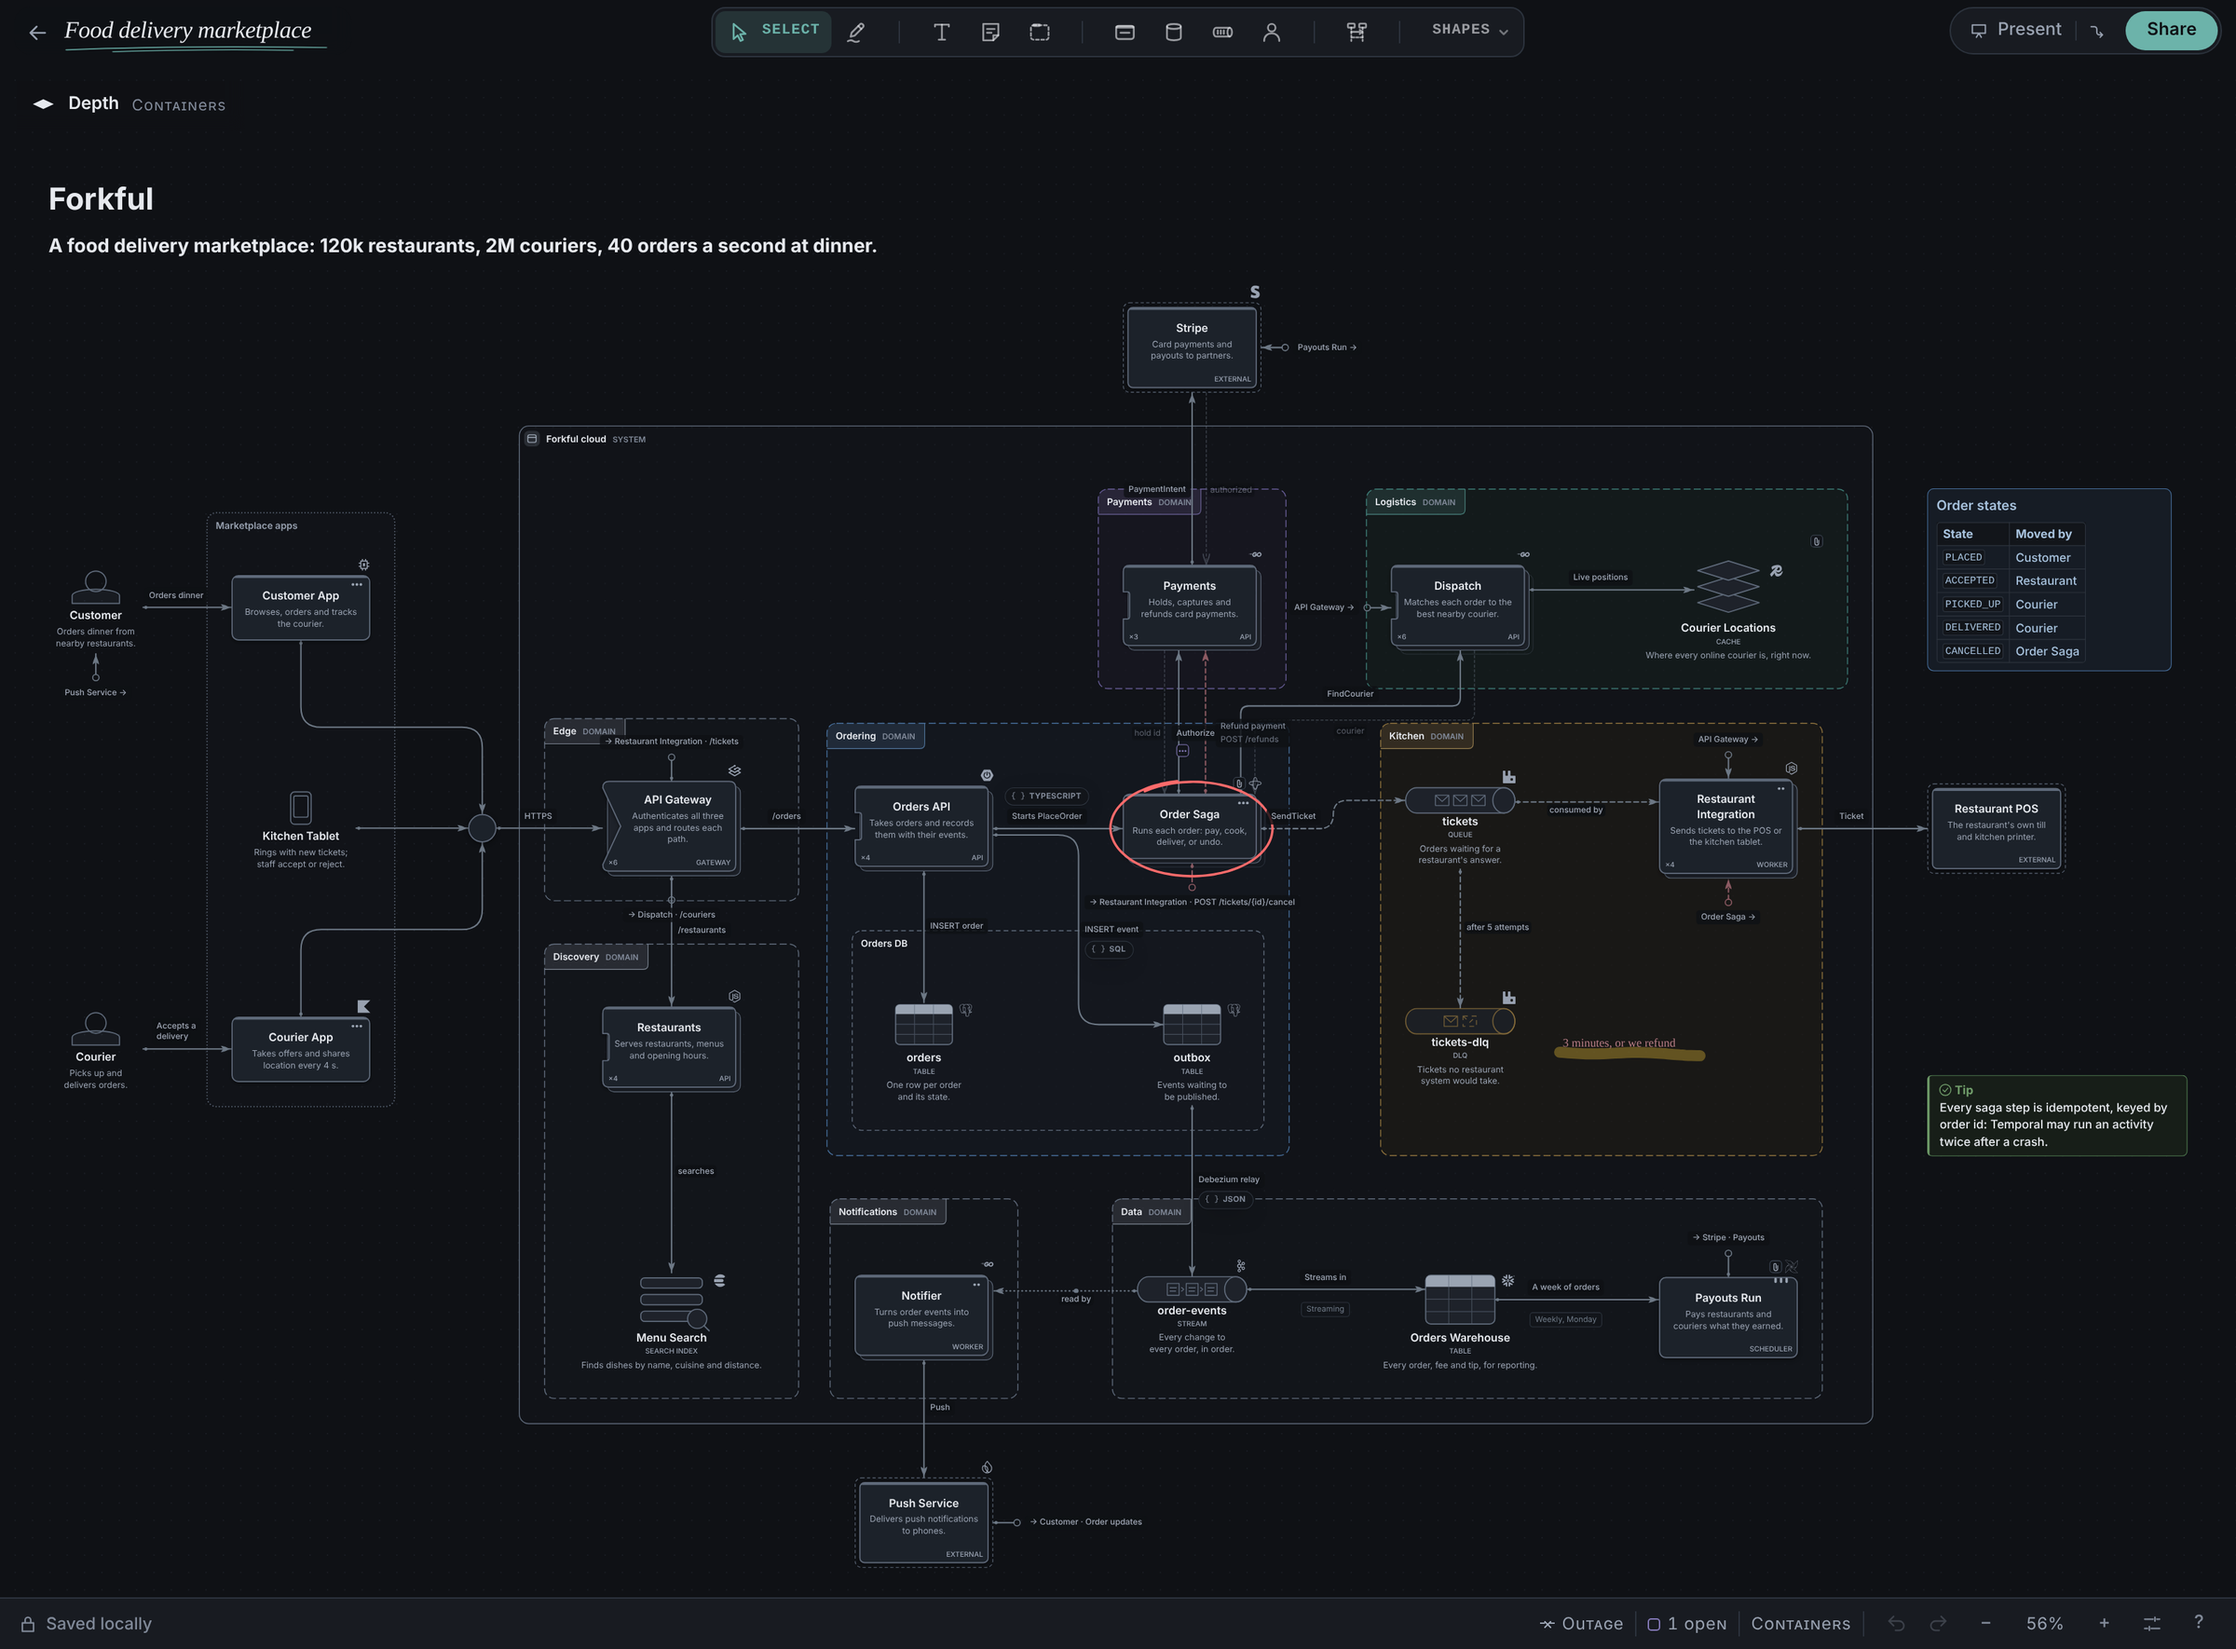
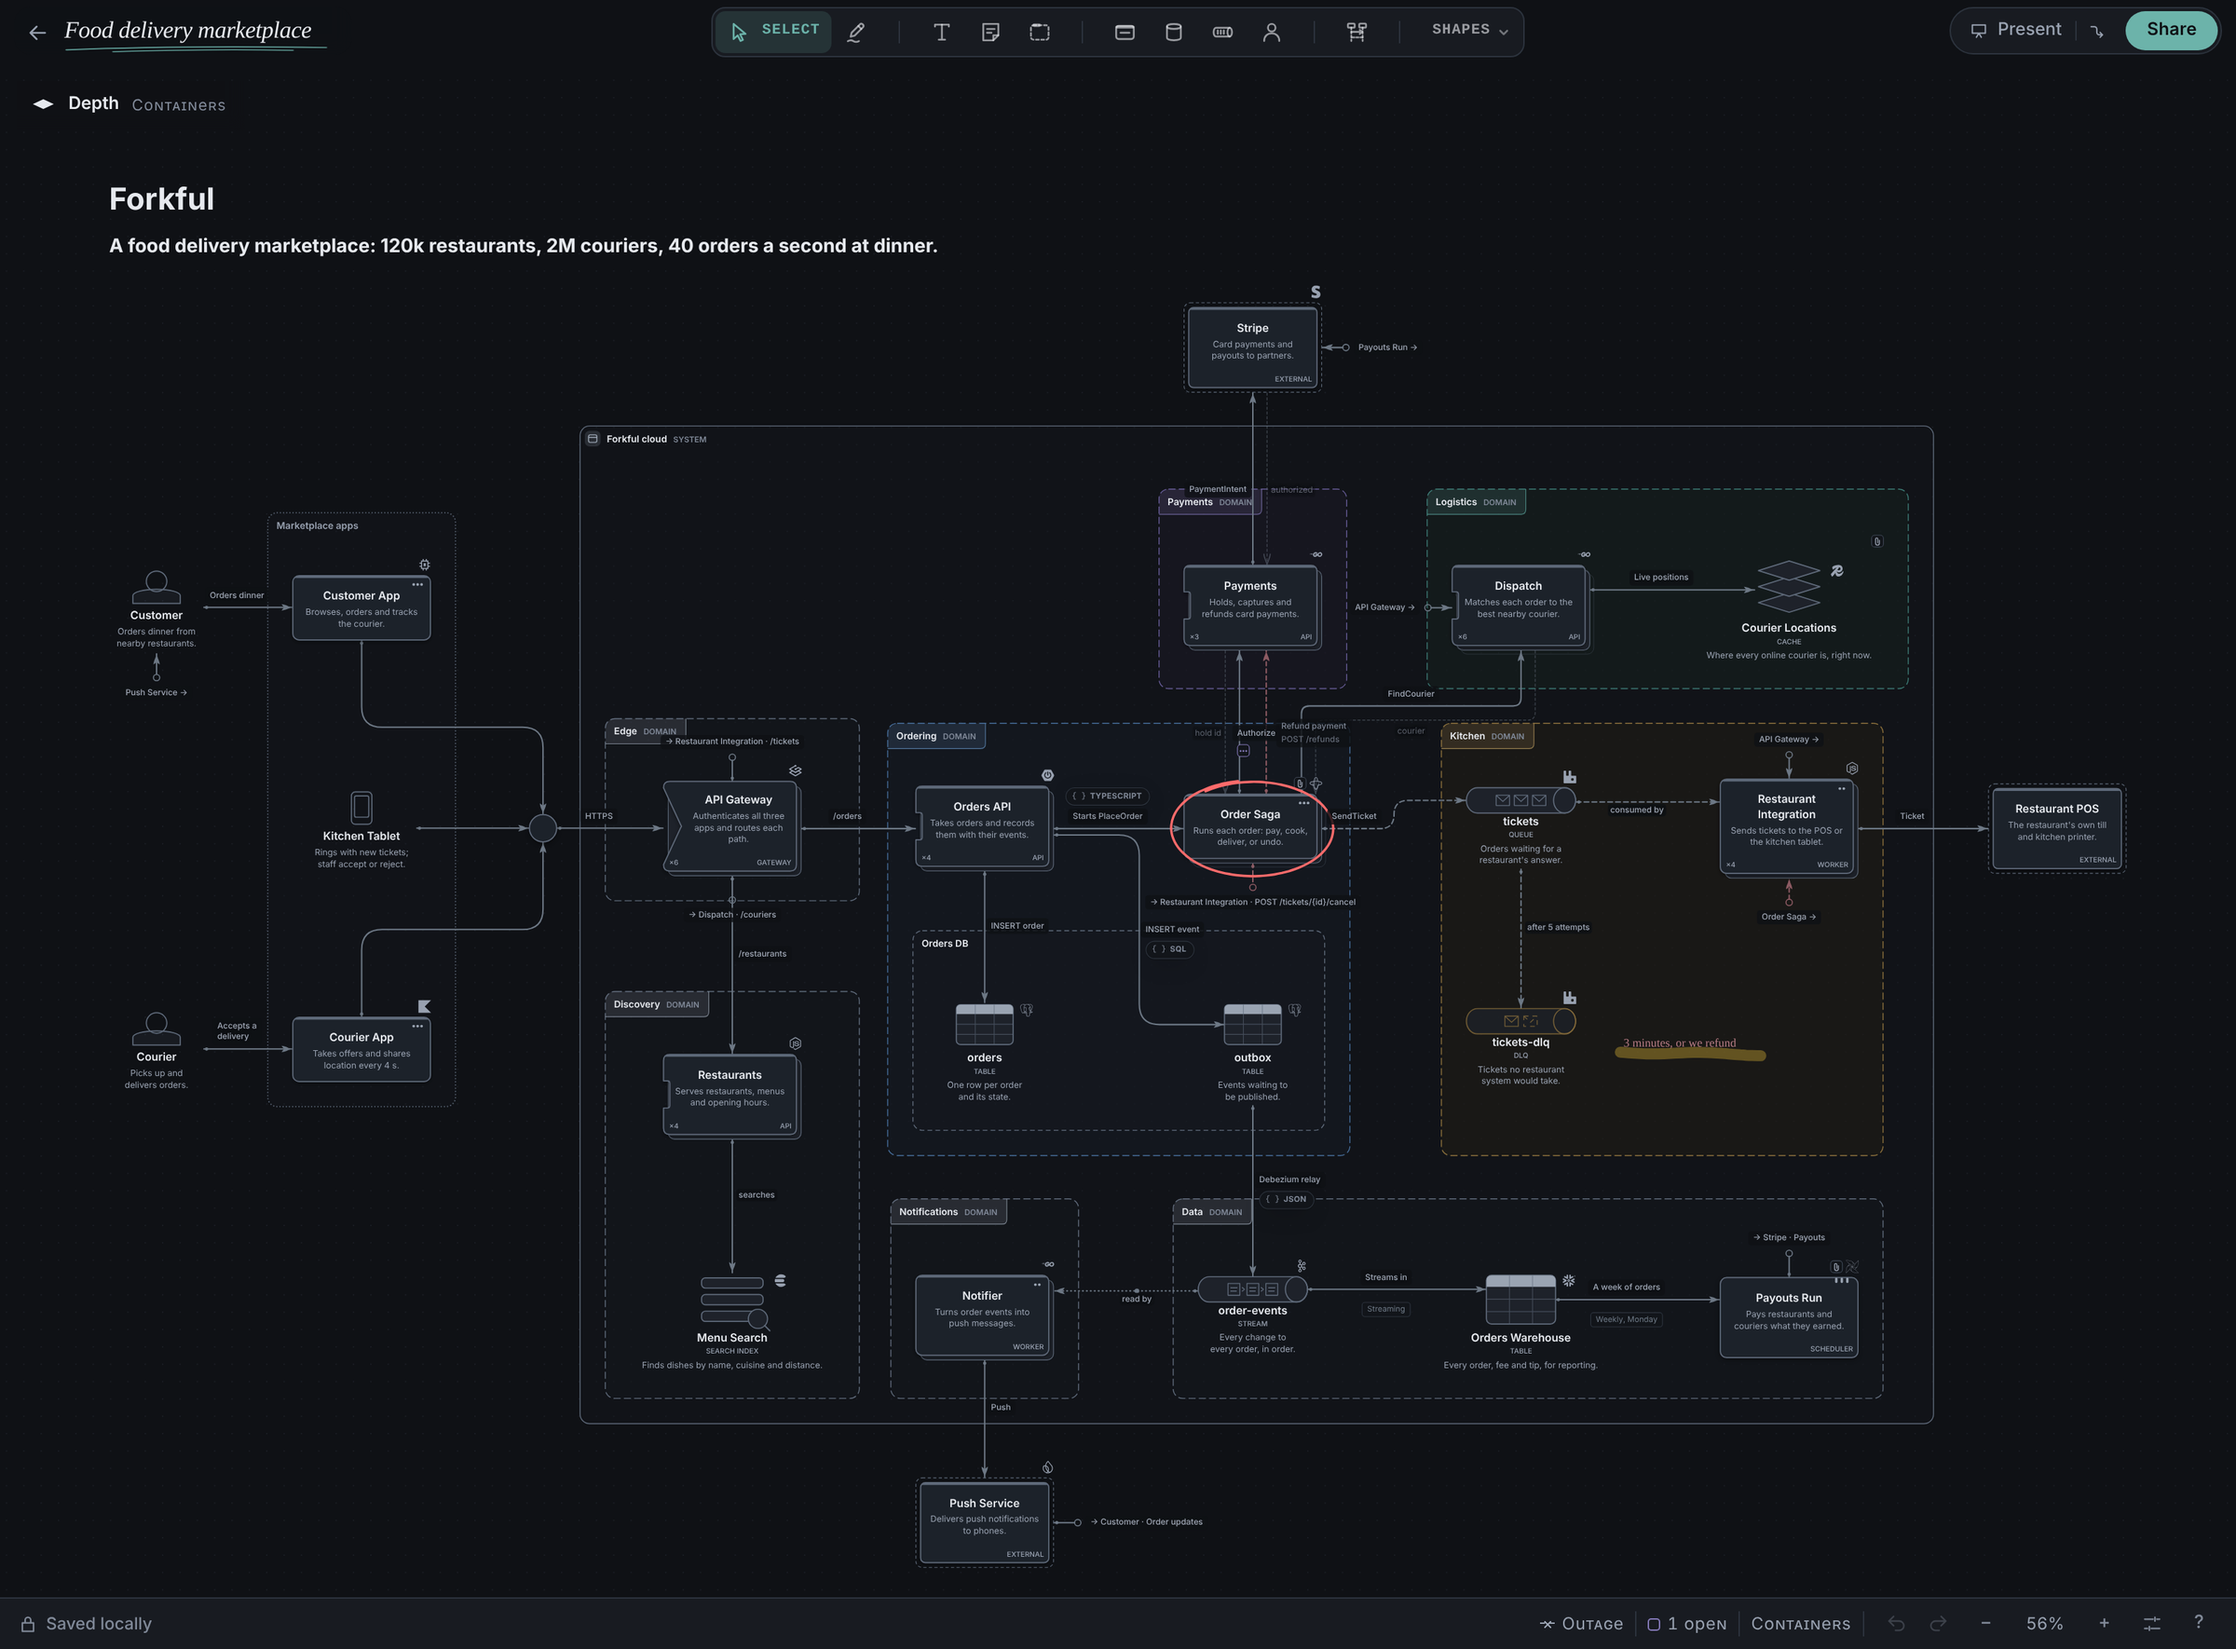
Show two example systems in the README under Examples
The section is now called Examples and shows two whole systems from the starters gallery, each
open in the editor in the reader's light or dark theme: Forkful, a food delivery marketplace,
and Reelwave, a video streaming platform with its Press play sequence diagram. Both screenshots
are retaken for the starters' tidied layouts.

diff --git a/README.md b/README.md
@@ -26,19 +26,33 @@ is yours to review.
 - **Context for decisions.** Notes, code, sources, and open questions.
 - **Import and export.** Import Mermaid and editable files; export images, editable files, Mermaid, PlantUML, Structurizr, and draw.io.
 
-## Start from a real system
+## Examples
+
+Whole systems from the [starters gallery](https://github.com/acltabontabon/draft-canvas-starters), open in Draft Canvas. Load any of them from
+**Starters** in the app, present their flows, step inside their services, and make them yours.
 
 <a href="https://github.com/acltabontabon/draft-canvas-starters/tree/main/starters/examples/food-delivery">
 <picture>
   <source media="(prefers-color-scheme: dark)" srcset="docs/media/starter-food-delivery-dark.png">
-  <img width="100%" alt="Forkful, a food delivery marketplace, open in Draft Canvas: customer, kitchen and courier apps meet at a junction before the API gateway; the order saga, payments, kitchen, logistics, data and notification domains sit inside the system boundary." src="docs/media/starter-food-delivery-light.png">
+  <img width="100%" alt="Forkful, a food delivery marketplace, open in Draft Canvas: customer, kitchen and courier apps meet at a junction before the API gateway; ordering, payments, kitchen, logistics, data and notification domains sit inside the system boundary." src="docs/media/starter-food-delivery-light.png">
 </picture>
 </a>
 
 <p align="center"><sub>
-<b>Forkful</b>, a food delivery marketplace from the <a href="https://github.com/acltabontabon/draft-canvas-starters">starters gallery</a>: an order saga
-with its refunds, an outbox, a dead-letter queue, a sequence diagram and eight flows to present.
-Open it from <b>Starters</b> in the app.
+<b>Forkful</b>, a food delivery marketplace: an order saga with its refunds, an outbox, a dead-letter
+queue and eight flows to present.
+</sub></p>
+
+<a href="https://github.com/acltabontabon/draft-canvas-starters/tree/main/starters/examples/video-streaming">
+<picture>
+  <source media="(prefers-color-scheme: dark)" srcset="docs/media/starter-video-streaming-dark.png">
+  <img width="100%" alt="Reelwave, a video streaming platform, open in Draft Canvas: TV, mobile and web apps meet at a junction before the edge gateway; discovery, playback and data domains sit in the cloud, edge appliances inside partner ISPs, and a Press play sequence diagram below." src="docs/media/starter-video-streaming-light.png">
+</picture>
+</a>
+
+<p align="center"><sub>
+<b>Reelwave</b>, a video streaming platform: an edge inside partner ISPs, DRM, a data platform that
+retrains recommendations, and a <i>Press play</i> sequence diagram.
 </sub></p>
 
 ## Get started
